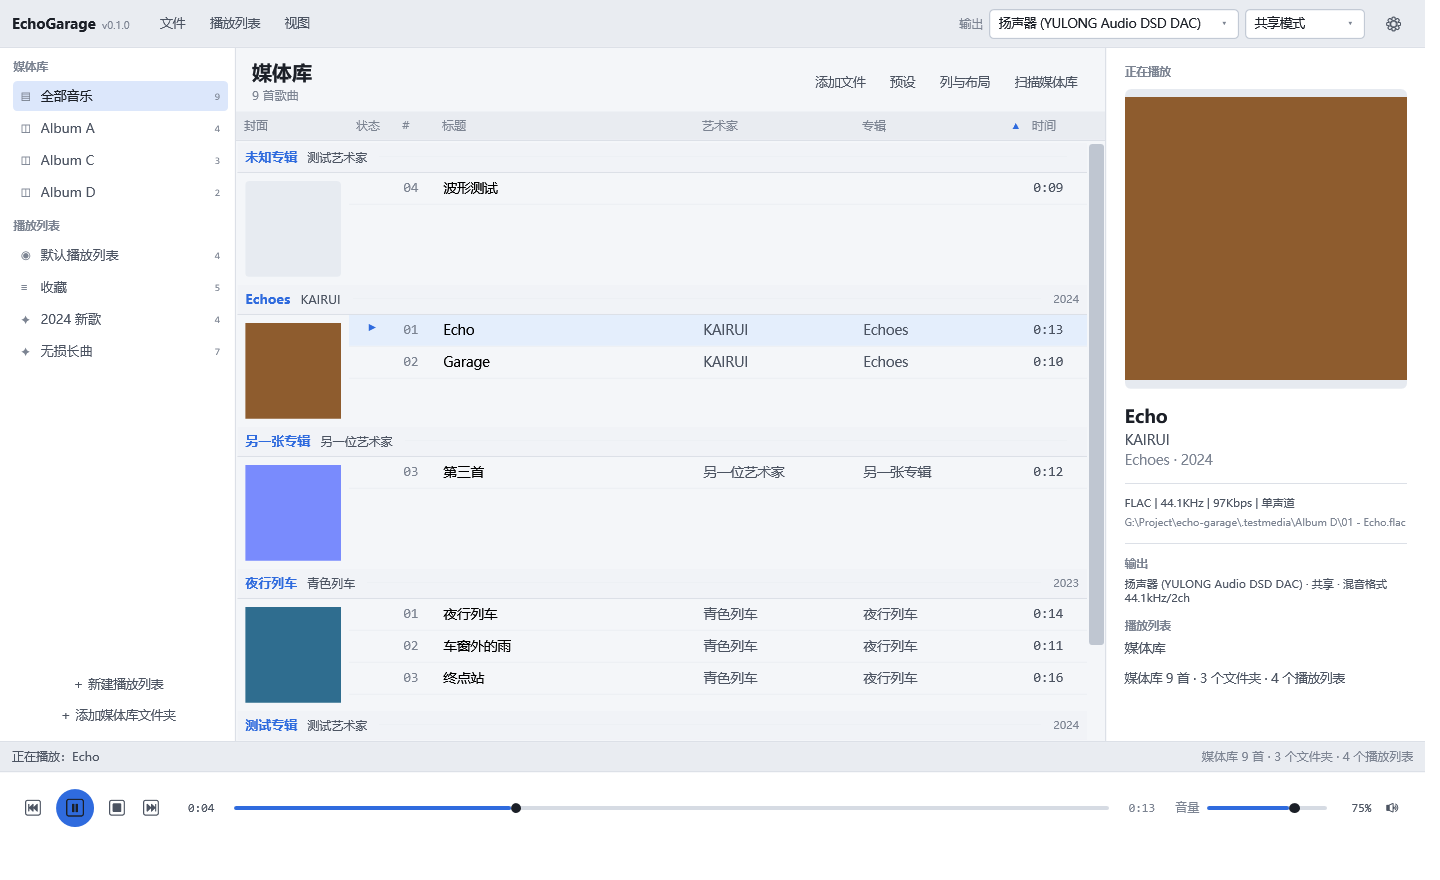
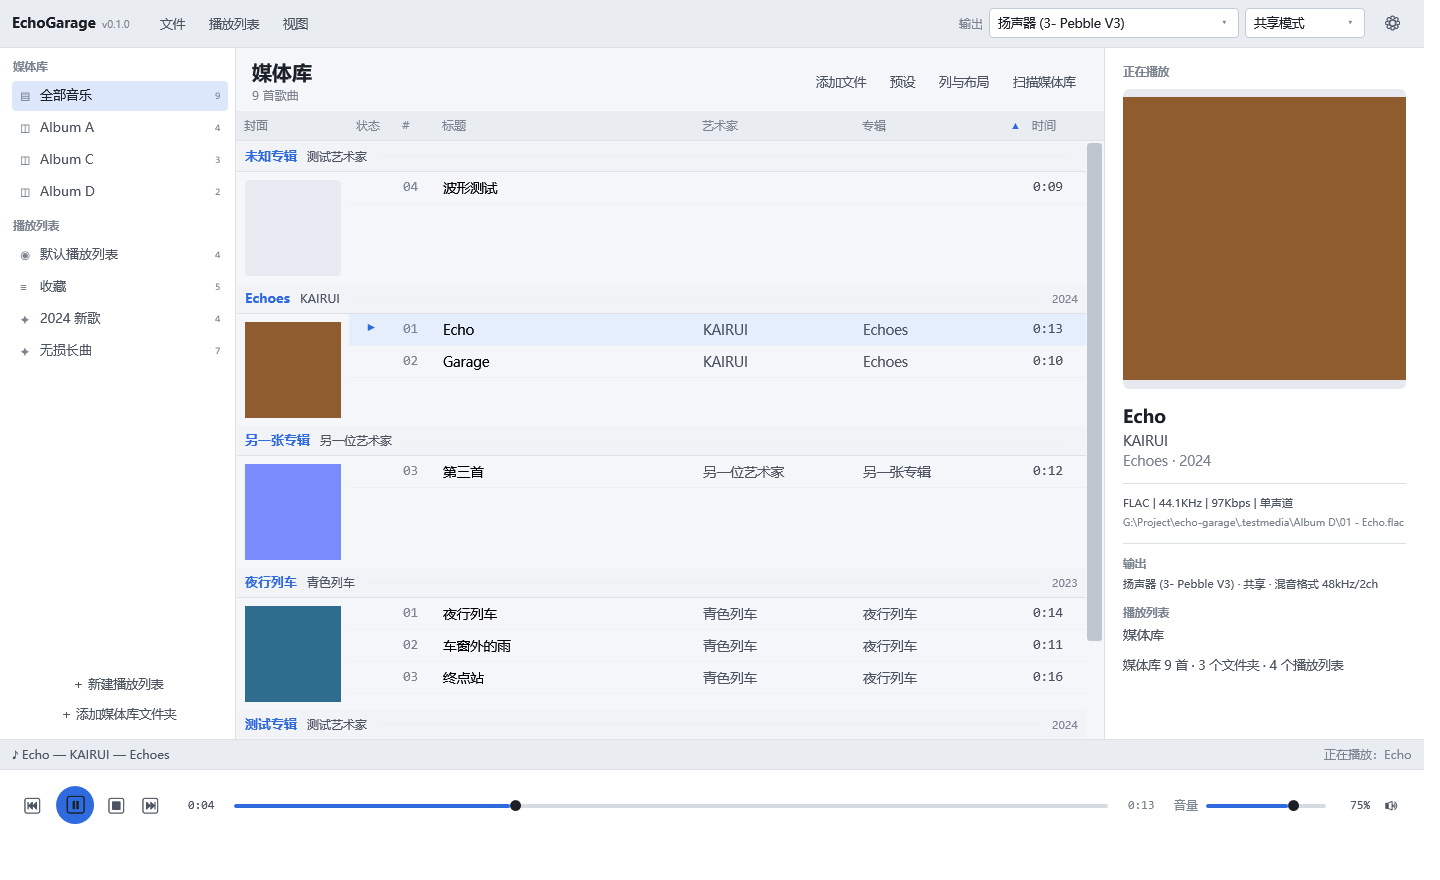
docs: 更新 README、KB-010 提案与界面截图
- README 补充：状态栏显示当前播放曲目、播放行自动居中、分组封面加载可靠性、传输栏无虚线焦点框。
- 新增 KB-010 提案（封面加载生命周期 / 播放信息状态栏 / 播放行自动居中），待 owner 批准后移入 docs/kb。
- docs/proposals/README 记录当前待批准提案。
- 重新生成 docs/screenshots/main.png 与 dark.png（新版状态栏 + 播放信息，无媒体库统计）。

diff --git a/docs/proposals/KB-010-cover-loading-lifecycle-statusbar-and-auto-center.md b/docs/proposals/KB-010-cover-loading-lifecycle-statusbar-and-auto-center.md
@@ -1,0 +1,115 @@
+# KB-010：封面加载生命周期、播放信息状态栏与播放行自动居中
+
+- 状态：**待 owner 批准**（提案，2026-11-11 起草；批准后移动到 `docs/kb/`）
+- 日期：2026-11-11
+- 适用版本：v0.1.0 后续迭代
+- 涉及文件：`CoverImageService`、`FileCoverCache`、`MainWindow`（分组封面事件、状态栏、自动居中）、
+  `MainViewModel`（`NowPlayingStatusText` / `HasStatusHint`）、`Controls.xaml`（TransportButton）、
+  `MainWindow.NowPlaying.cs`（新增，居中辅助）
+- 与既有文档的关系：KB-009 第 3、4 节（滚动条滑块、播放封面加载态）仍然有效；
+  本文第 1 节修正 KB-009/008 中“分组封面只在分组容器 Loaded 时加载”的实现方式。
+
+## 1. 背景（2026-11-11 owner 反馈）
+
+1. 拖动列表滚动条时，列表封面加载有时不生效（部分专辑封面一直停在灰色占位块）。
+2. 播放按钮周围出现多余的虚线焦点框。
+3. 播放器上方的状态栏（“就绪”处）改为显示当前播放曲目信息，去掉右侧媒体库/列表统计；
+   并新增“播放歌曲位于当前浏览列表时，自动跳转并把该行显示在列表中央”。
+
+## 2. 封面加载问题的根因与修复
+
+### 2.1 根因 A：分组视图的封面只在 `Loaded` 事件里加载，虚拟化下的生命周期不可靠
+
+- 分组视图是 `ListView` + `GroupStyle` + `VirtualizingPanel.IsVirtualizingWhenGrouping="True"`。
+  `GroupItem` 容器在测量 / 虚拟化复用的不同阶段，`Loaded`、`DataContextChanged`、`IsVisibleChanged`
+  的触发时机与次数并不一致：快速拖动 / 跳跃滚动时，部分容器在 `Loaded` 触发时还没有可用的
+  `DataContext`（分组），或者根本没有再触发 `Loaded`，导致封面加载请求从未发出，
+  封面栏保持灰色占位（`CoverPlaceholderBrush`）。
+- 实测（临时诊断，未提交）：一次滚动跳跃会创建约 50 个 `GroupItem` 容器的 DataContext，
+  但只触发个位数 `Loaded`；可见分组中确实存在“只有 DataContext、没有 Loaded”的容器。
+
+### 2.2 根因 B：内存负缓存把“瞬时失败”永久记为“没有封面”
+
+- `CoverImageService` 原来在任何异常/解码失败时执行 `Remember(memoryKey, null)`：
+  一次临时的文件锁、半写文件或解码失败，会让该专辑封面在**本次运行内永远空白**，
+  后续滚动回来也不会重试。
+- 同时，同一个封面的并发请求没有合并：快速滚动时同一专辑的多行/分组会重复排队提取与解码，
+  拉长其他封面出现的时间。
+
+### 2.3 根因 C：封面缓存文件不是原子写入
+
+- `FileCoverCache.WriteAsync` 直接写目标文件；并发请求或另一个解码宽度（128/420/512）同时读取时
+  可能读到写了一半的图片，解码失败后再被 2.2 的负缓存永久记住。
+- `Resolve` 只要文件存在就返回，0 字节残留文件同样会走上“解码失败 → 负缓存”的路径。
+
+### 2.4 修复
+
+1. **加载触发改为三条路径**（`MainWindow.xaml` + `MainWindow.xaml.cs`）：
+   - 分组封面 Border 同时监听 `Loaded`、`IsVisibleChanged`、`DataContextChanged`；
+   - `IsVisibleChanged` 是唯一在所有容器生命周期路径都会触发的事件：容器进入可见树时加载，
+     离开可见树时释放该组的大封面（`GroupCoverImage = null`），避免滚动整库后内存持续增长；
+   - `DataContextChanged` 处理容器被复用时的新分组（同时释放旧分组的引用）；
+   - 三条路径都会经过 `LoadGroupCoverAsync` 的“已有图直接返回”判断，配合 2 的并发合并不会重复解码。
+2. **`CoverImageService` 可靠性改造**：
+   - 同一 `(decodeWidth, coverKey)` 的并发请求用 `Lazy<Task<BitmapSource?>>` 合并为一次提取 + 解码
+     （single-flight），完成后从字典移除；
+   - 只有“封面缓存确认没有封面”（负缓存标记命中、无可用图片字节）才记住 `null`；
+     瞬时提取/解码失败只记 `Warn`，不写入内存缓存，下次请求会重试；
+   - 内存 LRU（300 张）行为保持不变。
+3. **`FileCoverCache` 原子写入**：先写 `*.tmp<guid>`，再 `File.Move(..., overwrite: true)` 替换；
+   `Resolve` 忽略 0 字节文件；提取/写入异常不再在缓存层吞掉，改为向上抛出，由图像服务决定不缓存失败结果。
+
+## 3. 状态栏改为“播放信息条”
+
+- 位置：主窗口底部、传输栏上方原 30px 状态栏。
+- 左侧（`NowPlayingStatusText`）：有当前曲目时显示 `♪ 标题 — 艺术家 — 专辑`（缺失字段自动跳过），
+  单行 `CharacterEllipsis` + ToolTip；没有当前曲目时显示“就绪”。
+- 右侧：删除 `LibrarySummary`（媒体库 N 首 / N 个文件夹 / N 个播放列表）统计；
+  保留扫描进度条，瞬时状态消息（扫描、导入、错误等）只在 `StatusMessage != "就绪"` 时显示
+  （`HasStatusHint`），4 秒后自动回到不显示。
+- 媒体库统计仍可在右侧“正在播放”面板与设置中查看，不丢失信息。
+
+## 4. 播放行自动居中
+
+- 需求：播放歌曲位于当前正在浏览的列表时，列表自动滚动，并把该行显示在视口中央。
+- 实现（`MainWindow.NowPlaying.cs`，partial class）：
+  - `CurrentRowChanged` 与 `ApplyLayout()`（切源、列布局变化）都会调用 `ScrollToCurrentRow()`
+    → `ScheduleCenterCurrentRow()`，用 `DispatcherPriority.Loaded` 延迟一帧，让列表先完成容器生成；
+  - 仅当 `CurrentRow` 属于当前视图的集合（分组视图 `GroupedList.Items` / 平铺 `TrackGrid.Items`）时执行，
+    浏览其它播放列表时不打扰滚动位置；
+  - 平铺视图用 `DataGrid.ItemContainerGenerator`；分组视图的顶层容器是 `GroupItem`，
+    需在视觉树中按 `DataContext` 找到 `ListViewItem`；
+  - 先 `ScrollIntoView` 保证容器存在，再用“行上方半个视口高的 `BringIntoView` 矩形”把行推到中央，
+    最后按像素误差最多修正 3 次；逻辑滚动（`CanContentScroll=True`）下用视口高度换算每个滚动单位对应像素。
+- 行为说明：双击播放、上一首/下一首、自动连播、切到包含当前歌曲的播放列表时，列表会居中到该行；
+  改列宽/列顺序引起的布局重建也会重新居中（沿用原 `ScrollToCurrentRow` 的调用点）。
+
+## 5. 传输栏按钮不再显示虚线焦点框
+
+- 原因：WPF 默认 `FocusVisualStyle` 会在获得键盘焦点的按钮内画虚线矩形（播放按钮为圆形，虚线框尤其显眼）。
+- 处理：`Controls.xaml` 的 `TransportButton` 样式增加 `FocusVisualStyle = {x:Null}`（`PlayButton` 继承它），
+  悬停/按下/禁用反馈保持不变。
+- 取舍：键盘 Tab 到传输按钮时不再有虚线焦点提示；如以后需要可访问性焦点提示，
+  建议改为主题令牌色的细描边（不使用系统虚线框）。
+
+## 6. 验证
+
+- 单元测试：82 个（81 通过 + 1 个真实注册表测试在受限会话跳过，0 失败）。
+  新增封面缓存回归测试：`CoverCache_ResolveIgnoresZeroLengthFile_AndReextracts`、
+  `CoverCache_WritesAtomicallyAndLeavesNoTempFiles`（`tests/EchoGarage.Tests/TagAndCoverTests.cs`）。
+- 封面加载（应用内临时诊断，未提交）：
+  - 2825 首真实库 + owner 配置（150% DPI）：启动、连续切换 5 次排序、模拟拖动滚动条 160 步到中/底部，
+    可见分组封面全部加载；滚动返回后仍正确；冷缓存（空封面缓存目录）首次提取 1,300+ 张封面
+    无 `WARN`/`ERROR`。
+  - 分组封面在离开可见区域后释放，不再随滚动整库累积大图。
+- 状态栏/焦点框/居中：`--screenshot` 截图确认左侧 `♪ 曲名 — 艺术家 — 专辑`、右侧无媒体库统计、
+  播放按钮无虚线框；平铺与分组视图下播放后当前行位于列表中轴附近（日志输出居中前后偏移误差 ≤ 2px）。
+- 文档截图（`docs/screenshots/main.png`、`dark.png`）在本次修改后重新生成。
+
+## 7. 已知限制与后续
+
+- 封面首次提取仍受磁盘与音频文件读取速度影响；冷缓存下滚动到新专辑时可能会有短暂占位，
+  但不会再永久空白，且会按可见顺序逐步补齐。
+- 自动居中在“用户正在手动滚动”时不会阻止滚动（下一次切歌/布局变化时才再次居中）；
+  如 owner 希望“仅当行不在视口内才居中”，可以再调整策略。
+- 键盘焦点提示取舍见第 5 节；如需要可增加自定义焦点描边。

diff --git a/README.md b/README.md
@@ -28,6 +28,9 @@ EchoGarage 是一个面向个人使用的 Windows 本地音乐播放器，目标
 - 所有界面颜色由主题字典（`DynamicResource`）驱动，后续新增主题不需要改控件代码。
 - 深色 / 浅色都会同步调整窗口标题栏；对话框跟随当前主题。
 - 列表右侧滚动条滑块有 12px 的最小高度，长列表下也更容易抓取和拖动。
+- 底部状态栏显示当前播放曲目（`♪ 标题 — 艺术家 — 专辑`）；扫描 / 导入 / 错误等瞬时提示显示在右侧，
+  媒体库统计移到“正在播放”面板。
+- 传输栏按钮不再显示系统默认的虚线焦点框（悬停 / 按下反馈保留）。
 
 ### 播放
 - 支持 WAV、FLAC、MP3、AAC/M4A（以及系统 Media Foundation 能解码的 WMA、AIFF、MP4 音频）。
@@ -56,6 +59,10 @@ EchoGarage 是一个面向个人使用的 Windows 本地音乐播放器，目标
 - 按专辑分组只在排序为“专辑”或“专辑艺术家”时显示：其他排序方式忠实按所选顺序平铺显示，不合并不连续的歌曲；组内默认按碟片号 → 曲目号升序，可在“列与布局”中关闭。
 - 分组视图：分组标题压缩为一行（专辑 / 专辑艺术家 / 年份 + 分隔线）；封面放在该专辑左侧的独立封面栏，纵向覆盖整组歌曲（foobar2000 风格），歌曲列在封面右侧。拖动表头“封面”栏右缘即可调整封面大小（48–320px，按播放列表分别记忆），取消分组则恢复逐行小封面。
 - 歌曲之间的 1px 浅色分割线延伸至整行右缘；分组头与分割线颜色都使用主题令牌，深色 / 浅色主题一致。
+- 播放的歌曲位于当前浏览的播放列表时，列表自动滚动并把该行显示在中央：双击播放、上一首 / 下一首、
+  自动连播、切换到包含当前歌曲的播放列表都会触发；浏览其它列表时不会移动滚动位置。
+- 分组封面在快速滚动 / 切换排序后也会可靠加载：封面加载由容器的可见性 / 数据变化驱动，
+  离开视口会释放大图，瞬时的读取或解码失败不会被缓存成“永久无封面”。
 
 ### 快捷键
 

diff --git a/docs/proposals/README.md b/docs/proposals/README.md
@@ -16,4 +16,6 @@
   相关内容按 owner 要求改为 `docs/kb/KB-008-*`。
 - 2026-11-11：`KB-009`（分组智能判定 / 组内碟片-曲目排序开关 / 滚动条最小滑块 /
   播放封面加载态）已获 owner 批准，归档到 `docs/kb/KB-009-*`。
-- 待批准提案：无。
+- 2026-11-11：新增提案 `KB-010-cover-loading-lifecycle-statusbar-and-auto-center.md`
+  （分组封面加载生命周期 / 状态栏播放信息 / 播放行自动居中 / 传输按钮焦点框），**待 owner 批准**。
+- 待批准提案：`KB-010`。
